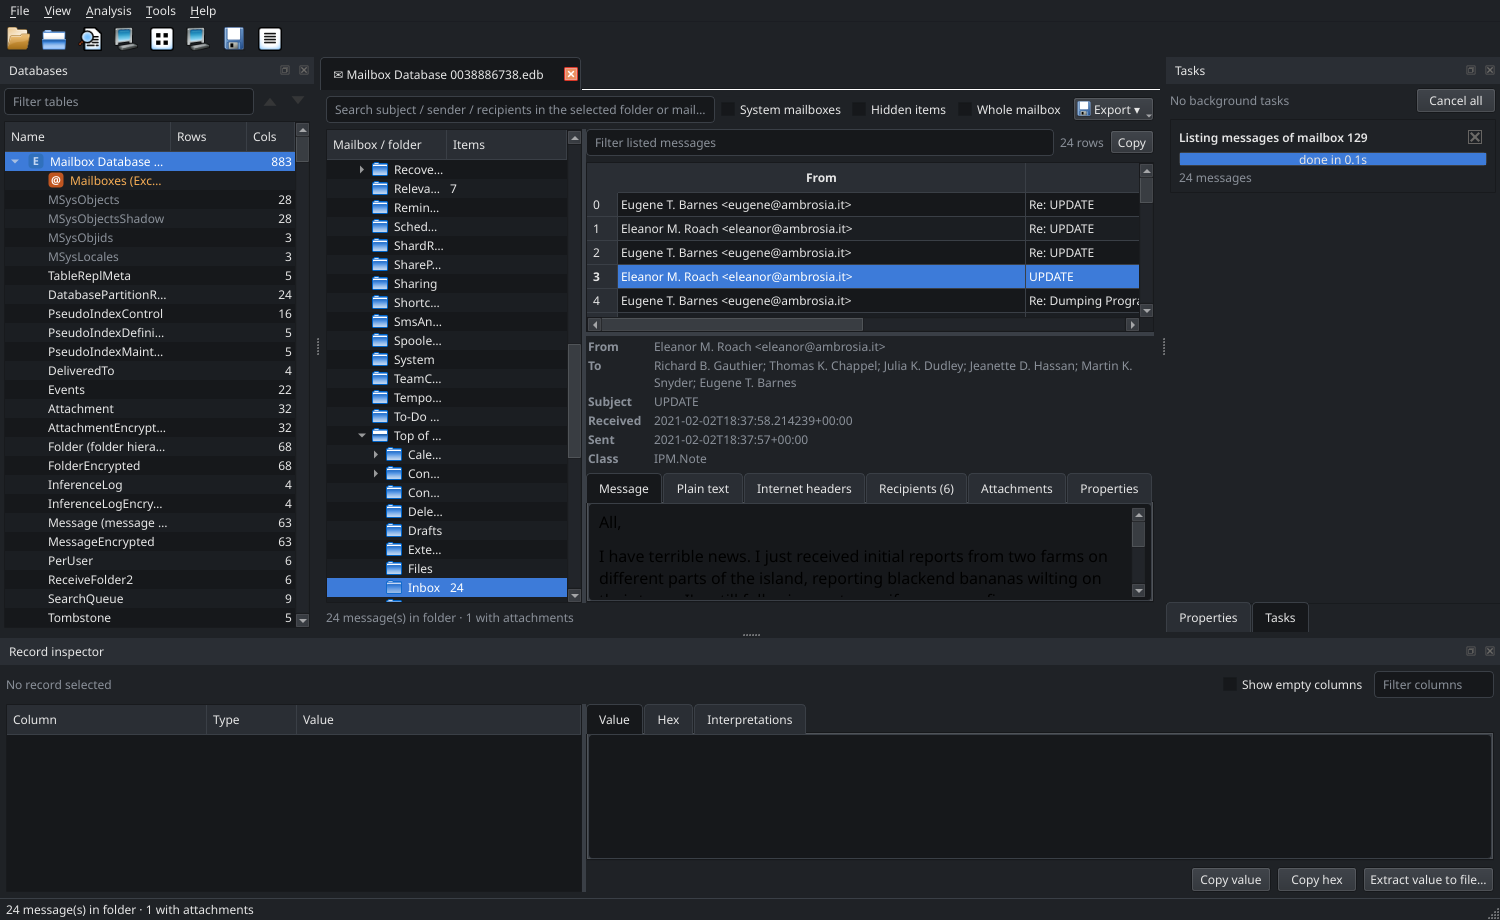
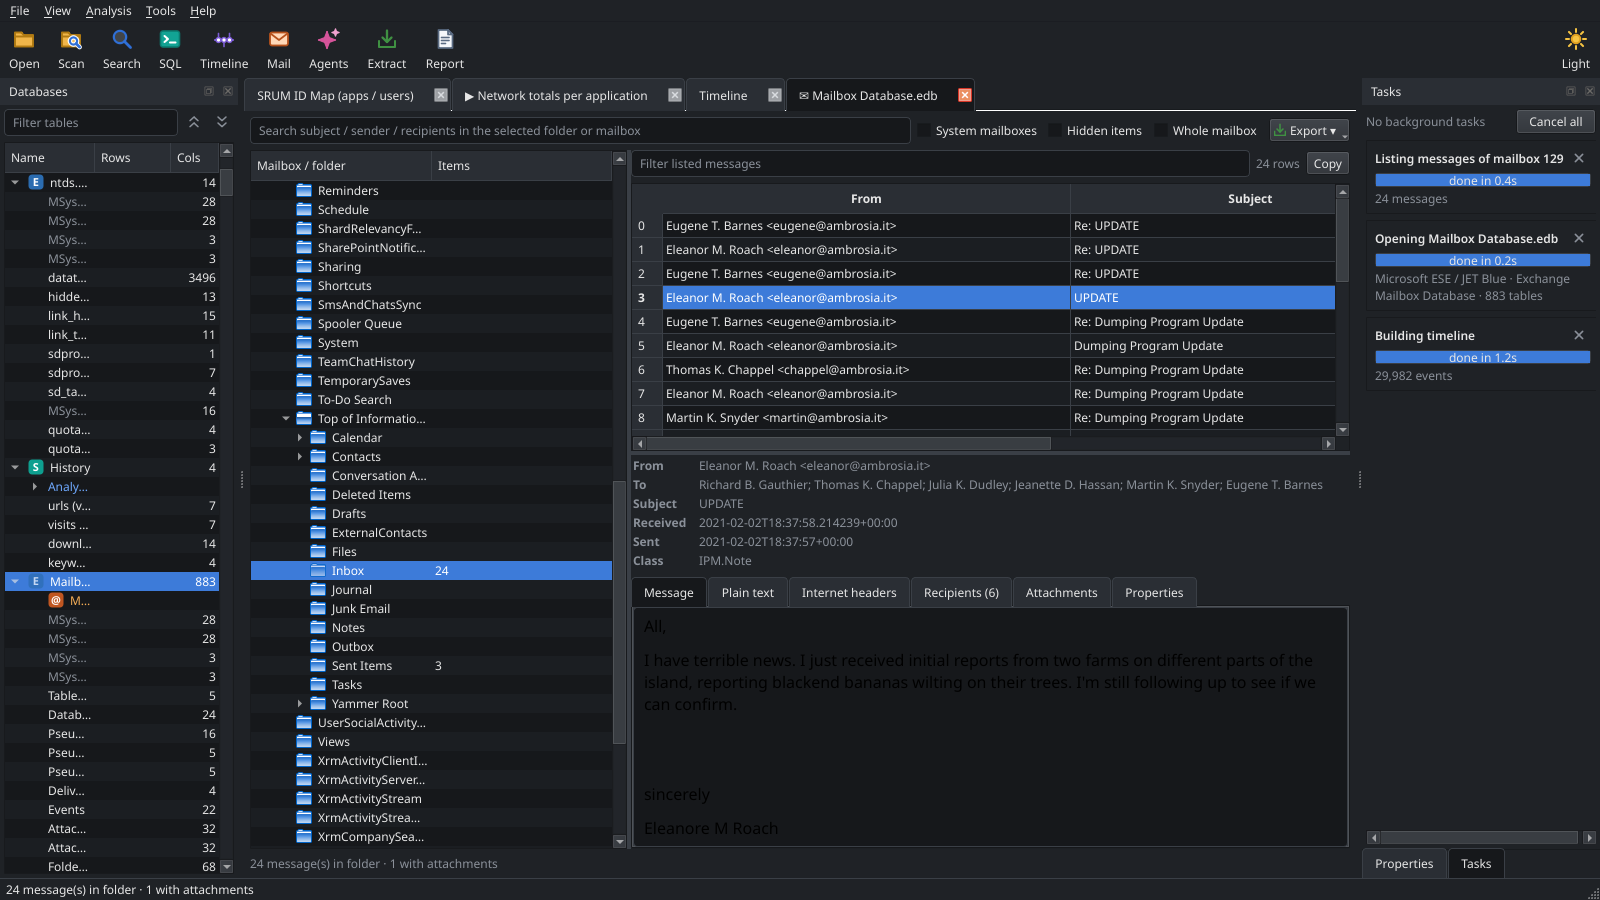
Scrub personal names and local paths from README and screenshots
Screenshots are regenerated from a neutral evidence tree (/tmp/cases/CASE-...)
with a synthetic Chrome History, so no user name, home directory or case
identifier appears; the embedded-agent screenshot (which showed the local
workspace path) is removed and the timeline shot takes its place. The report
example and a LevelDB test fixture no longer use a real name.

diff --git a/tests/test_backends.py b/tests/test_backends.py
@@ -73,7 +73,7 @@ def leveldb_dir(tmp_path: Path) -> Path:
     batch += b"\x01" + _varint(2) + b"k1" + _varint(2) + b"v1"
     batch += b"\x00" + _varint(2) + b"k2"
     key = b"_https://example.com\x00\x01name"
-    val = b"\x00" + "Keyur".encode("utf-16-le")
+    val = b"\x00" + "alice".encode("utf-16-le")
     batch += b"\x01" + _varint(len(key)) + key + _varint(len(val)) + val
     # one FULL record plus one FIRST/LAST split record spanning a block boundary
     rec = struct.pack("<IHB", 0, len(batch), 1) + batch
@@ -249,7 +249,7 @@ def test_leveldb_records(leveldb_dir: Path) -> None:
         ops = [(r["sequence"], r["operation"], r["key_text"]) for r in all_rows]
         assert ops[:2] == [(1, "put", "k1"), (2, "put", "k9")]
         assert (6, "delete", "k2") in ops
-        assert any(r["key_text"] == "https://example.com :: name" and r["value_text"] == "Keyur" for r in all_rows)
+        assert any(r["key_text"] == "https://example.com :: name" and r["value_text"] == "alice" for r in all_rows)
         big = next(r for r in all_rows if r["key_text"] == "big")
         assert len(big["value"]) == LOG_BLOCK_SIZE + 100  # split record reassembled
         live = {r["key_text"]: r["value_text"] for r in db.fetch("live", limit=50).rows}

diff --git a/README.md b/README.md
@@ -25,7 +25,7 @@
 </p>
 <p align="center">
   <img src="docs/screenshots/analysis-view.png" width="440" alt="SRUM network usage view">
-  <img src="docs/screenshots/agents.png" width="440" alt="Claude Code running inside EDB Explorer">
+  <img src="docs/screenshots/timeline.png" width="440" alt="Cross-database timeline">
 </p>
 
 ---
@@ -174,7 +174,7 @@ edb-explorer dump SRUDB.dat SruDbIdMapTable -n 20 -g svchost -f jsonl
 edb-explorer search WebCacheV01.dat "login.microsoftonline.com" --regex
 edb-explorer export ntds.dit -o out/ -f xlsx           # whole database -> out/ntds.xlsx
 edb-explorer export SRUDB.dat -t "Network Data Usage" -o net.pdf -f pdf
-edb-explorer report SRUDB.dat ntds.dit -o case.docx --case CASE-2026-001 --analyst "K. Aghao"
+edb-explorer report SRUDB.dat ntds.dit -o case.docx --case CASE-2026-001 --analyst "J. Doe"
 edb-explorer scan /mnt/evidence                        # every supported database, by signature
 edb-explorer sql sms.db "SELECT COUNT(*) FROM message WHERE is_from_me = 1"
 edb-explorer views History                             # list artifact views for this database type

diff --git a/CHANGELOG.md b/CHANGELOG.md
@@ -6,6 +6,10 @@ All notable changes to this project are documented here. The format follows
 
 ## [Unreleased]
 
+### Changed
+- README screenshots regenerated from a neutral evidence tree (no user names, home directories or case
+  identifiers); the embedded-agent screenshot was dropped.
+
 ## [0.4.0] - 2026-09-20
 
 ### Added
